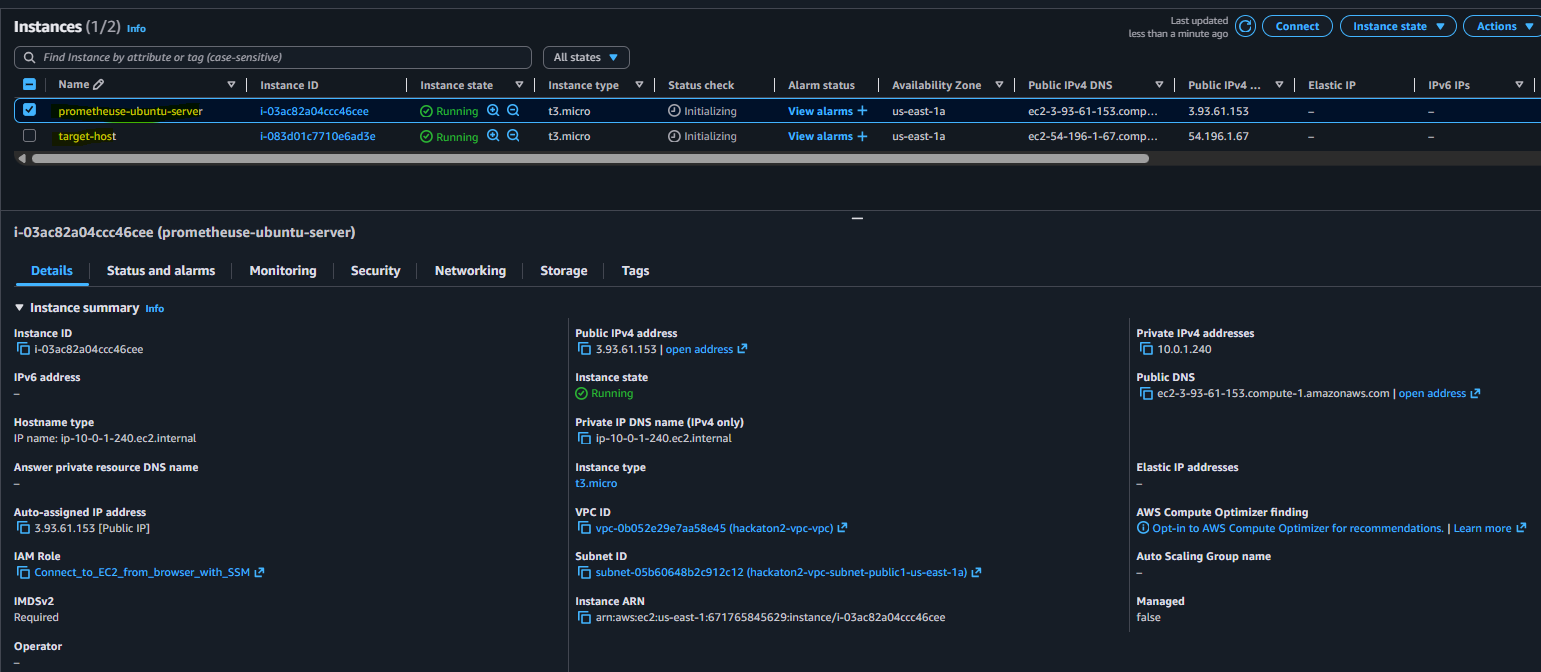
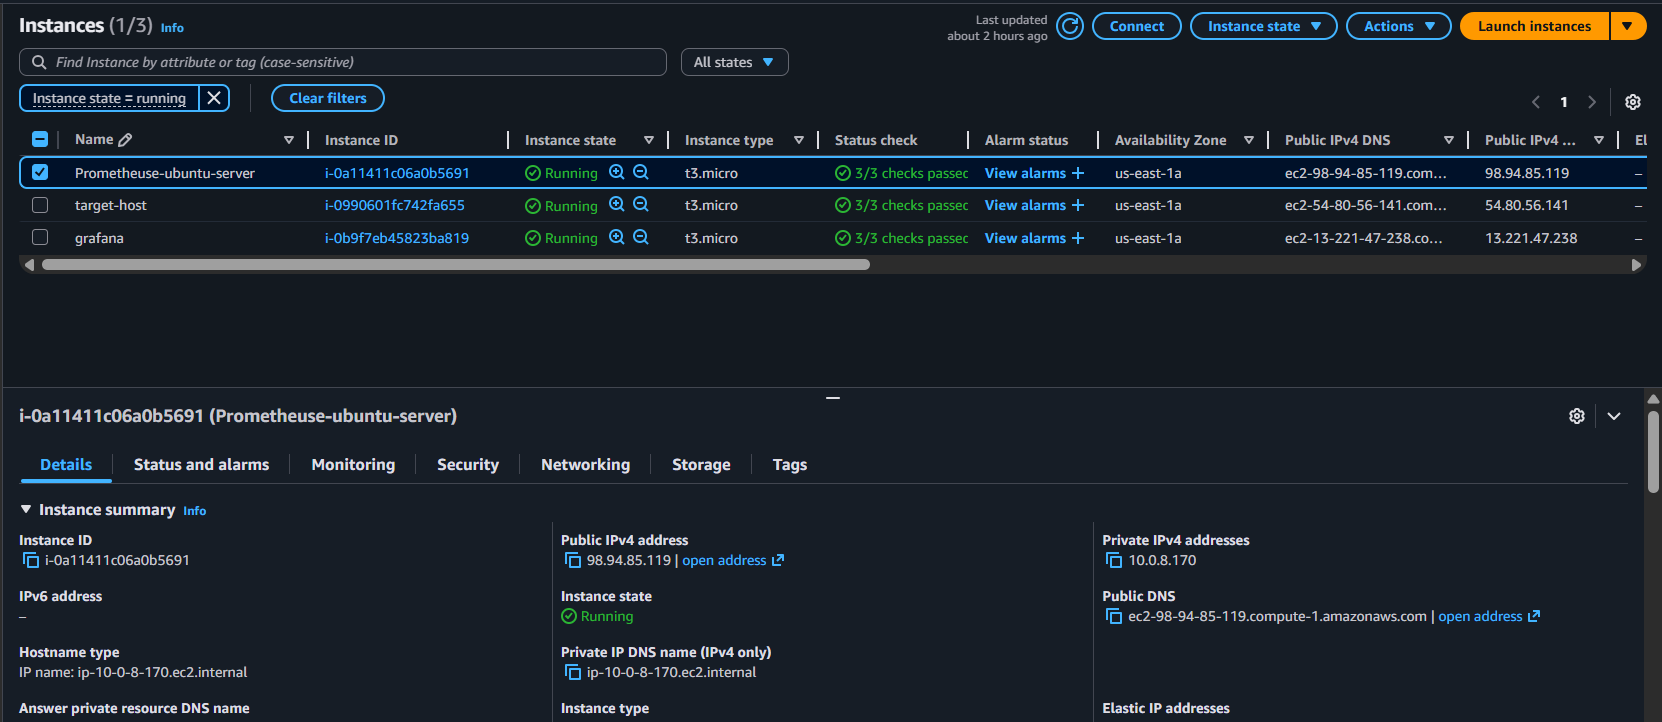
updated image

diff --git a/README.md b/README.md
@@ -79,7 +79,7 @@ Dashboard shows a problem → Alert is triggered → You check logs → You fix 
 
 ## 🪜 3. Project Setup Steps
 ### Step 1 — Prometheus Server Installation. 
-1. Launched 2 ubuntu server: (Prometheuse-ubuntu-server and target-host)
+1. Launched 3 ubuntu server: (Prometheuse-ubuntu-server, target-host, grafana)
 
 ![Alt text](images/prometheus-ubuntu-ec2.png)
 
